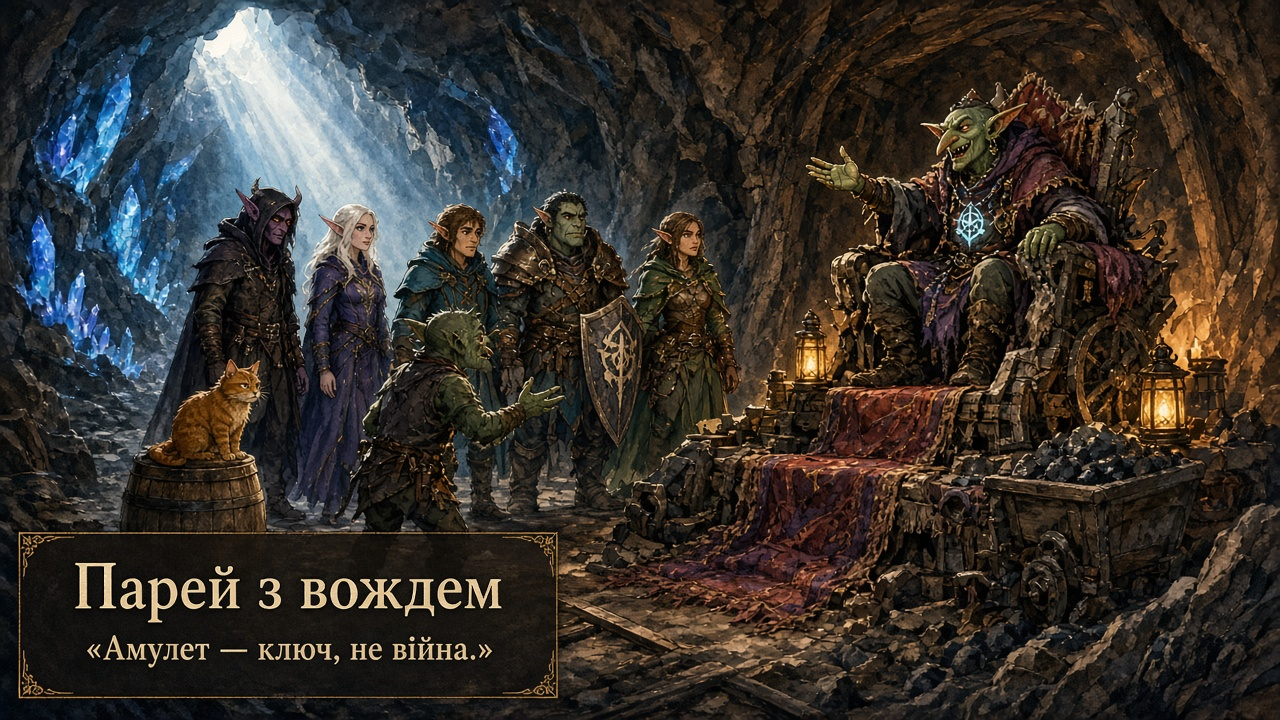
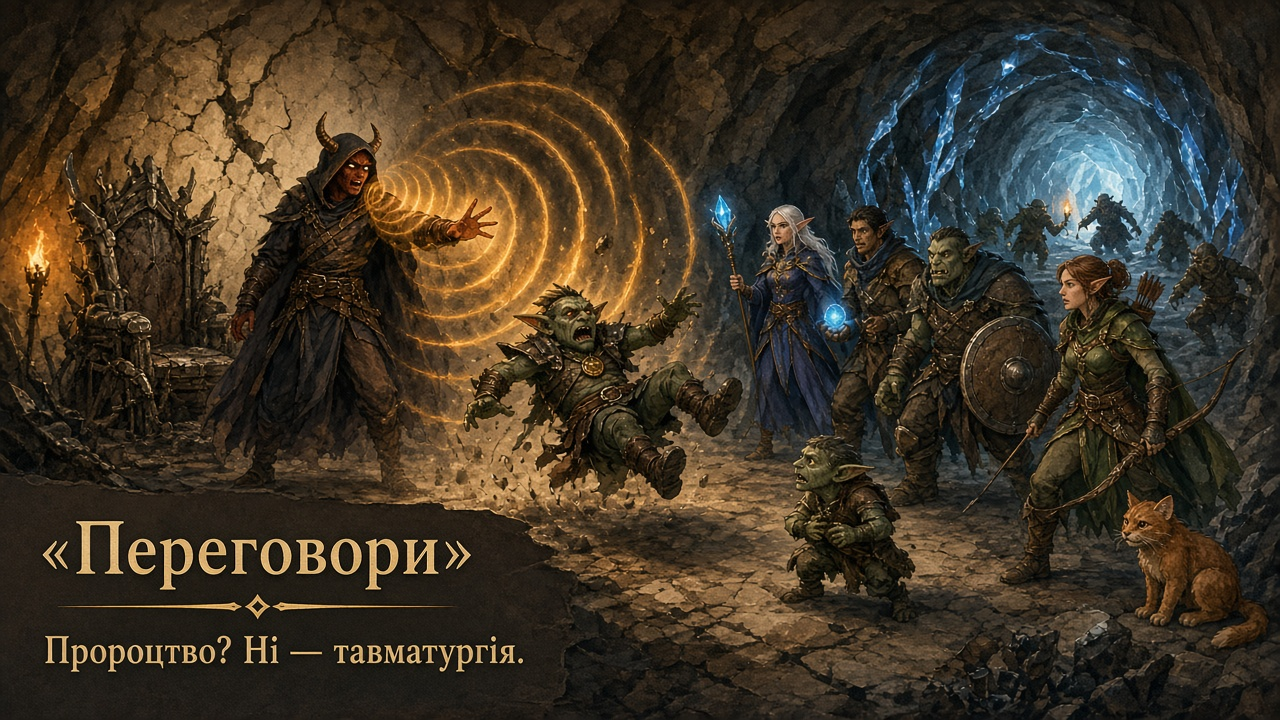
Revise goblin beat: thaumaturgy scare into one-turn fight
Update table canon — Vex thaumaturgy (voice, eyes, tremors), leader
misreads prophecy and attacks, dies in one round, goblins flee except
Skritch — and regenerate Переговори visual; keep prior talk-only frame.

diff --git a/docs/act1-scene-visuals-checklist.md b/docs/act1-scene-visuals-checklist.md
@@ -133,10 +133,10 @@ One image per row unless you say “skip” or “merge.” Slugs are for filena
 - [x] **Q9. Mine entrance:** Collapsed entrance; dead previous volunteer group. Dynamite blast; workers' cabin; hunting trap → caught goblin hostage as guide (see prior note).
 - [x] **Q10. Volunteer bodies:** Yes — **previous group dead before entrance**, bodies **impaled on wooden spikes** (grim display).
 - [x] **Q11. Miners:** **All dead** — found lying in a **corner deep in the mine**; **no rescues**.
-- [x] **Q12. Goblin leader:** **No fight** at parley — hostage led party to leader. Learned leader wears **cursed amulet** with **prophecy** (seal breaks → evil returns). Short talk; goblin promised future help at **Goblin Camp / Goblin City** if party **let him go** — party **released him**. *(Clarify: guide vs leader — see Q12b.)*
+- [x] **Q12. Goblin leader:** Hostage (**Skritch**) led party to leader. Talk began; leader wore **cursed amulet** / **prophecy** lore. **Vex** cast **`thaumaturgy_cantrip_transmutation`** — **booming voice + glowing/black eyes + harmless tremors** — to scare them. Leader **misread it as prophecy coming true** and **attacked**. Fight started; party **killed the leader in one turn**; **other goblins fled** — **except one** (Skritch stayed / did not flee with the rest).
 - [x] **Q13. Amulet:** Party **has it** — stored in a **backpack**, **not worn**. They treat it as a **key to enter Goblin Camp**; **do not know** it is cursed (prophecy/seal lore not known to PCs yet).
-- [x] **Q14. Mine standout:** Parley over combat; dynamite + trap; **Miraz's backpack** found with **map to the Cursed Temple** in the forest.
-- [x] **Q12b. Released goblin:** Not the leader — a **random goblin** (mine trap hostage / guide). **Table canon name:** **Skritch Wire-Tooth** — parleyed, promised help at Goblin Camp if freed; party let him go. *(Register in `names-index.json` for future scenes.)*
+- [x] **Q14. Mine standout:** Dynamite + trap; **thaumaturgy scare → prophecy misread → one-round leader kill**; **Miraz/Mira's backpack** + **map to the Cursed Temple**.
+- [x] **Q12b. Remaining goblin:** **Skritch Wire-Tooth** — trap guide; **did not flee** with the others after the leader dropped; promised help at Goblin Camp; party let him go. *(Register in `names-index.json` for future scenes.)*
 - [x] **Q12c. Huntress backpack:** Village **huntress** went ahead tracing the **source** before the party; they found **her backpack** with map to **Cursed Temple**. At table she was called **Mira** — same story role as scenario **Mara Kell** (not barkeep Mira at The Last Lamp).
 
 ### D. Forgotten shrine / Cursed Temple
@@ -214,7 +214,7 @@ Prompt reminder for group frames: *exactly these five with correct genders + opt
 | `13_forest_trail` (rejected) | `art/act1/13_forest_trail_gnome_reject.jpg` | Rejected — invented gnome/dwarf |
 | `14_mine_discovery` (+ spiked volunteers) | `art/act1/14_mine_discovery.jpg` | **Approved** (merged with `15`) |
 | `16_mine_crawl` (Skritch trap) | `art/act1/16_mine_crawl.jpg` | **Approved** |
-| `17_goblin_parley` | `art/act1/17_goblin_parley.jpg` | Awaiting review (fun parley; no combat) |
+| `17_goblin_parley` | `art/act1/17_goblin_parley.jpg` (+ `_v1` prior talk-only) | Awaiting review — thaumaturgy scare → prophecy → 1-turn kill; Skritch stays |
 | `18_mira_backpack_map` (+ amulet in pack) | `art/act1/18_mira_backpack_map.jpg` | Kept — review after parley insert |
 
 ---
@@ -268,7 +268,7 @@ Prompt reminder for group frames: *exactly these five with correct genders + opt
 | Mine discovery | Yes | Collapsed entrance; dynamite; cabin; trap-caught goblin guide |
 | Volunteer bodies | Yes | **Before entrance** — impaled on **wooden spikes** |
 | Mine crawl | Yes | **Skritch Wire-Tooth** (trap goblin) guided party; parley; miners dead in corner; Skritch **released** |
-| Goblin leader fight | Yes | **No combat** — negotiation instead |
+| Goblin leader fight | Yes | Talk → Vex **thaumaturgy** (voice+eyes+tremors) scare → leader thinks **prophecy** → attacks → **leader dead in one turn** → goblins flee **except Skritch** |
 | Strange amulet | Yes | In party **backpack**; **key to Goblin Camp**; not worn; PCs unaware of curse |
 | Mira's backpack / Cursed Temple map | Yes | Village **huntress Mira** went ahead; party found backpack + **map to Cursed Temple** |
 

diff --git a/docs/act1-table-recap-when-lanterns-fall-silent.md b/docs/act1-table-recap-when-lanterns-fall-silent.md
@@ -25,7 +25,7 @@ All five present for every session.
 
 ## One-paragraph summary
 
-The party took Mayor Alden's contract in Briarford, followed the herbalist lead and volunteer trail, won better pay from the mayor, talked down lantern thieves, and survived a harrowing rat fight at the mill. They entered the forest (wolves — one **left tied** for after the curse lifts), reached a collapsed coal mine, found the **previous volunteers impaled** and **miners dead** in a cave corner, used **dynamite**, trapped and released **Skritch Wire-Tooth**, parleyed with the goblin leader, took the **amulet** as a supposed **Goblin Camp key** (not worn; **curse unknown to PCs**), and found village **huntress Mira's** backpack with a map to the **Cursed Temple**. At the temple they solved a **four-statue sun puzzle**, navigated **black fog** with **blue lantern light**, explored quarters and a **alchemy lab** (wolf-blood blue light, healing potion, comic third bottle → glue), then faced the **necromancer** in the main hall. **Vex bluffed**; **Lilith's wild magic** started the fight; **crits** stopped the ritual; **fog lifted**; **level up**; **interrupted ritual power** may flow into the party. Act 1 ended **in the temple**. **Loot not yet assigned** — defer to **Chapter 2**.
+The party took Mayor Alden's contract in Briarford, followed the herbalist lead and volunteer trail, won better pay from the mayor, talked down lantern thieves, and survived a harrowing rat fight at the mill. They entered the forest (wolves — one **left tied** for after the curse lifts), reached a collapsed coal mine, found the **previous volunteers impaled** and **miners dead** in a cave corner, used **dynamite**, trapped **Skritch Wire-Tooth**, faced the goblin leader (Vex **thaumaturgy** scare → prophecy misread → leader attacked → **one-turn kill**; goblins fled **except Skritch**), took the **amulet** as a supposed **Goblin Camp key** (not worn; **curse unknown to PCs**), and found village **huntress Mira's** backpack with a map to the **Cursed Temple**. At the temple they solved a **four-statue sun puzzle**, navigated **black fog** with **blue lantern light**, explored quarters and a **alchemy lab** (wolf-blood blue light, healing potion, comic third bottle → glue), then faced the **necromancer** in the main hall. **Vex bluffed**; **Lilith's wild magic** started the fight; **crits** stopped the ritual; **fog lifted**; **level up**; **interrupted ritual power** may flow into the party. Act 1 ended **in the temple**. **Loot not yet assigned** — defer to **Chapter 2**.
 
 ---
 
@@ -58,8 +58,8 @@ All village script scenes reportedly ran; **affected homes (`07`)** not recalled
 | Entrance | Collapsed; **volunteers impaled on wooden spikes** outside |
 | Miners | **All dead**, piled in a **corner** deeper in the mine |
 | Tactics | **Dynamite** on entrance; hid in **workers' cabin**; **hunting trap** |
-| Goblin guide | **Skritch Wire-Tooth** — trapped, led party toward leader, **released** after parley |
-| Leader | **No fight** — talked; learned of leader's amulet; released hostage goblin (not leader) |
+| Goblin guide | **Skritch Wire-Tooth** — trapped, led party to leader; **did not flee** when others ran; **released** after; promised Goblin Camp help |
+| Leader | Talk → Vex **thaumaturgy** (booming voice + glowing eyes + tremors) to scare → leader **misreads as prophecy** → **attacks** → **killed in one turn**; rest flee except Skritch |
 | Amulet | Taken; in **backpack**; treated as **key to Goblin Camp**; PCs **don't know** it's cursed |
 | Huntress | **Mira** (village huntress; scenario role ≈ **Mara Kell**) went ahead; party found **her backpack** + **map to Cursed Temple** |
 
